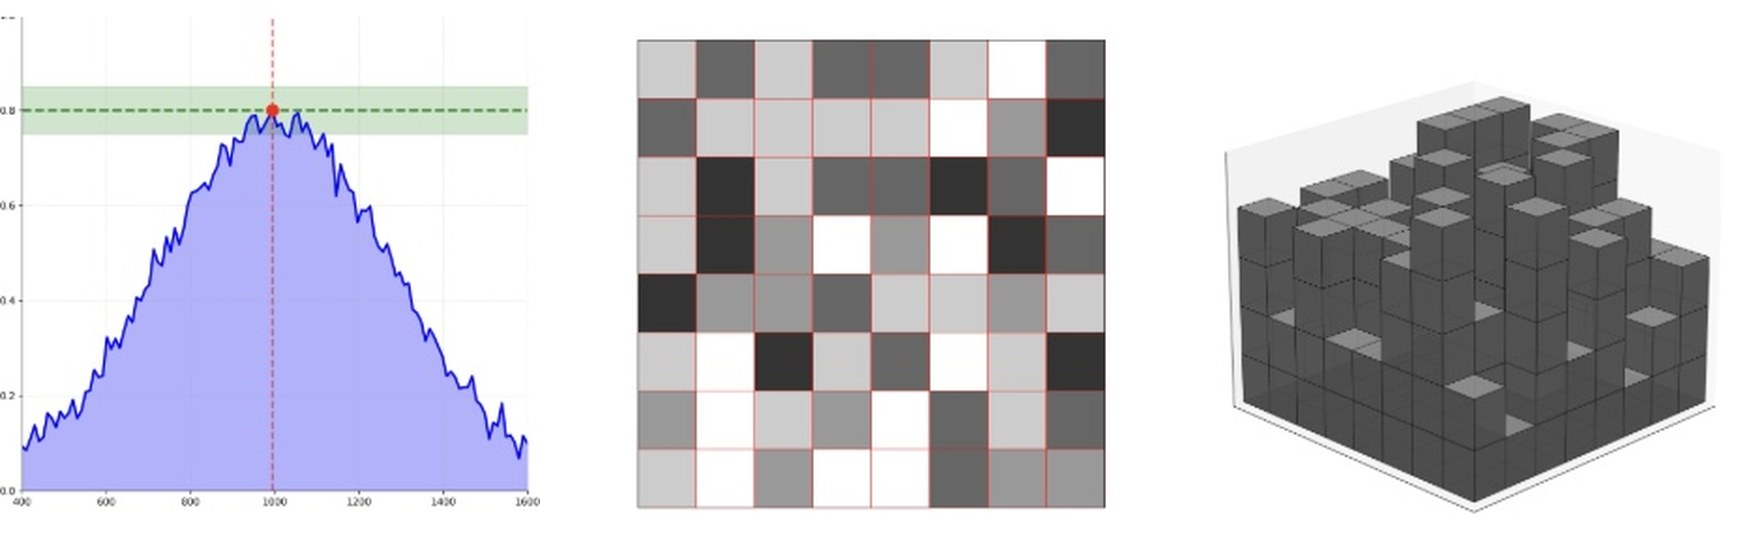
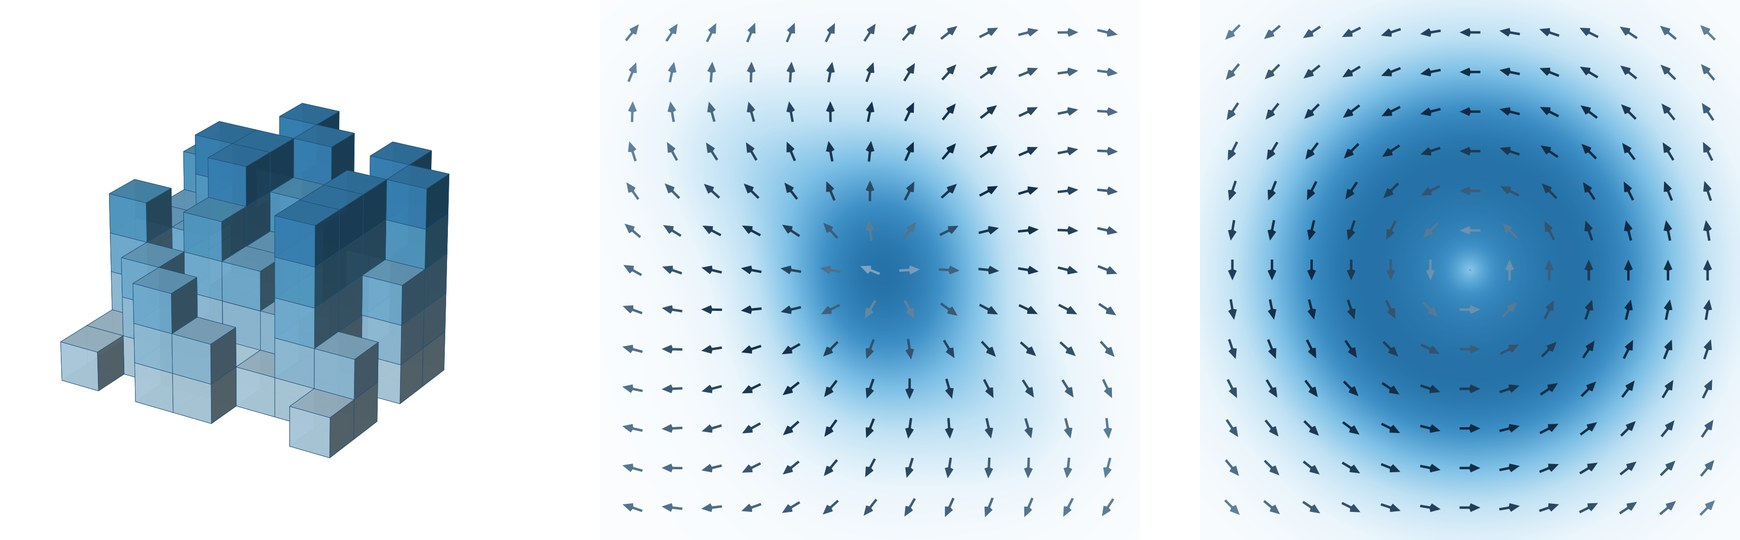
Teal HYPE-CCDM figure, redrawn NanoDiff figure, wider hero spacing
Claude-Session: https://claude.ai/code/session_0114fWJ3frxqWYcAUYCuZCR1

diff --git a/publications/index.html b/publications/index.html
@@ -79,7 +79,7 @@
         </article>
         <article id="nanodiff" class="research-project" aria-labelledby="nanodiff-title">
           <div class="project-visual">
-            <div class="figure-box project-image strip"><svg class="research-thumbnail" viewBox="0 0 600 224" role="img" aria-label="Target transmittance spectrum, generated device layout, and the corresponding 3D device."><image href="/assets/img/nanodiff-panels.jpg" x="0" y="0" width="600" height="186.2" preserveAspectRatio="xMidYMid meet"/><text x="93.1" y="212" text-anchor="middle" class="fig-label">Target response</text><text x="300.0" y="212" text-anchor="middle" class="fig-label">Generated layout</text><text x="506.9" y="212" text-anchor="middle" class="fig-label">3D device</text></svg></div>
+            <div class="figure-box project-image strip"><svg class="research-thumbnail" viewBox="0 0 600 224" role="img" aria-label="A voxel nanophotonic device and its electric and magnetic field distributions."><image href="/assets/img/nanodiff-panels.jpg" x="0" y="0" width="600" height="186.2" preserveAspectRatio="xMidYMid meet"/><text x="93.1" y="212" text-anchor="middle" class="fig-label">Device</text><text x="300.0" y="212" text-anchor="middle" class="fig-label">E field</text><text x="506.9" y="212" text-anchor="middle" class="fig-label">H field</text></svg></div>
             <div class="image-caption"><span>03</span><span>AI for science</span></div>
             
           </div>

diff --git a/assets/css/site.css b/assets/css/site.css
@@ -437,3 +437,4 @@ html.dark .cv-reader { background: #303632; }
   .intro-lead { font-size: 1.2rem; }
   .project-copy h2 { font-size: 1.2rem; }
 }
+.intro-lead { margin: 32px 0 28px; }
